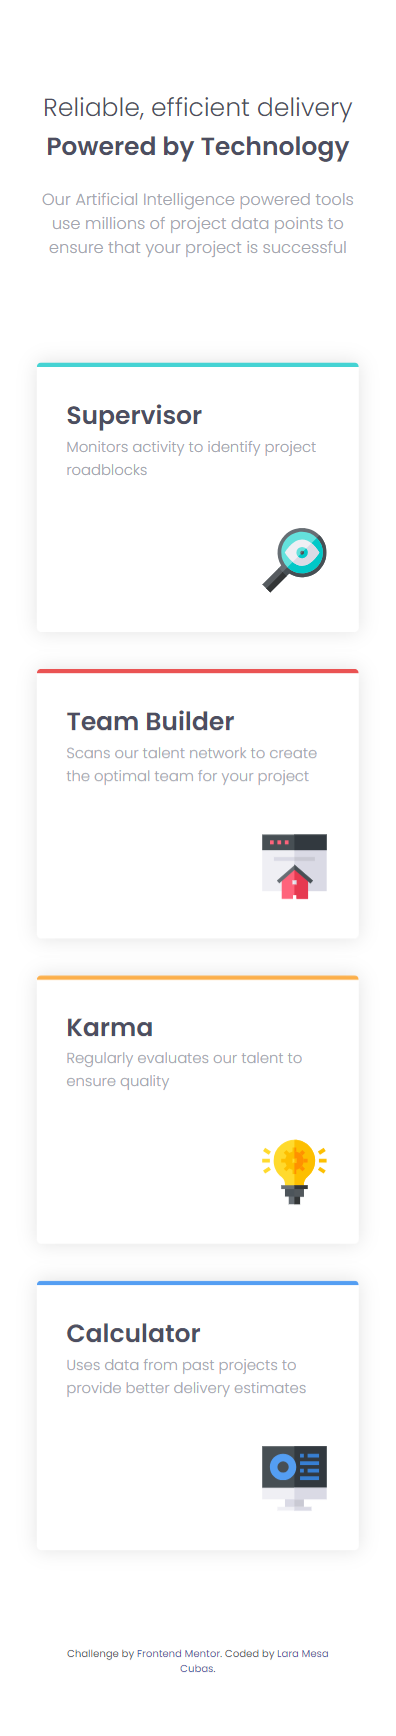
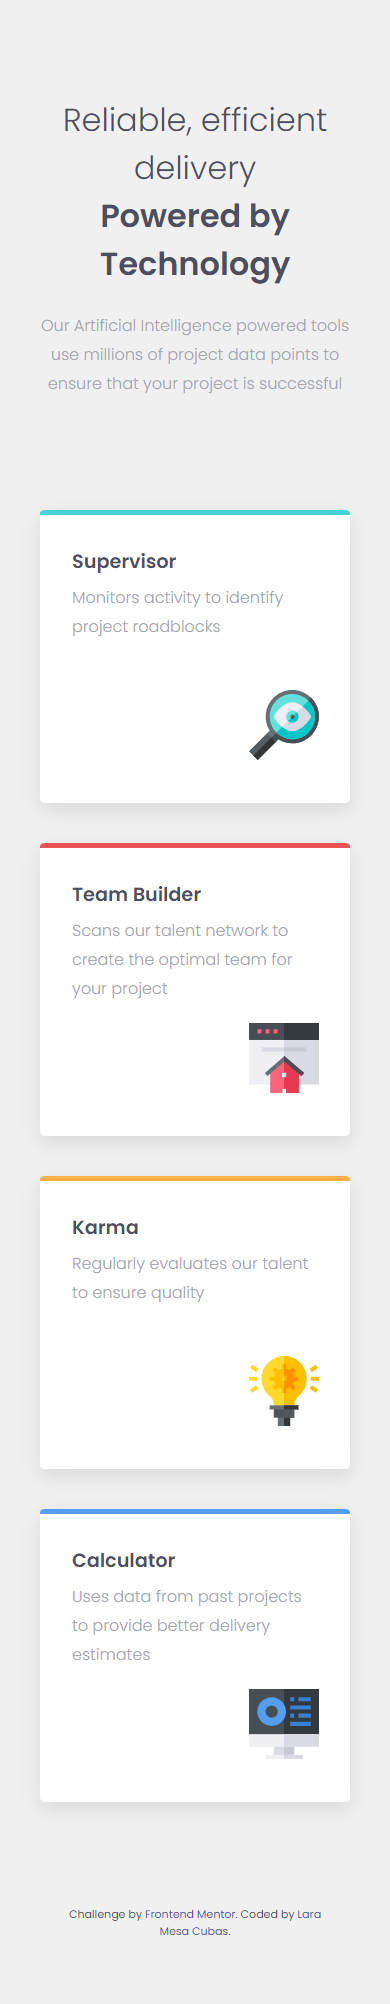
working

diff --git a/style.css b/style.css
@@ -7,7 +7,8 @@
     --color-Blue: hsl(212, 86%, 64%);
     --color-Very-Dark-Blue: hsl(234, 12%, 34%);
     --color-Grayish-Blue: hsl(229, 6%, 66%);
-    --color-Very-Light-Gray: hsl(0, 0%, 89%);
+    --color-Very-Light-Gray: hsl(0, 0%, 94%);
+    --color-shadow: hsl(0, 3%, 85%);
     --color-white: hsl(0, 0%, 100%);
     --color-a: hsl(228, 45%, 44%);
     --radius: 5px;
@@ -26,6 +27,7 @@ body {
     font-family: "Poppins", serif;
     height: 100vh;
     color: var(--color-Very-Dark-Blue);
+    background-color: var(--color-Very-Light-Gray);
 }
 
 img {
@@ -44,23 +46,24 @@ footer {
 }
 
 h1 {
-    font-size: clamp(1.7rem, 0.986rem + 1.905vw, 2.7rem);
+    font-size: 2rem;
     font-weight: var(--Weight3);
 }
 
 h2 {
-    font-size: 1.7rem;
+    font-size: 1.2rem;
     font-weight: var(--Weight3);
 }
 
 p {
     font-weight: var(--Weight1);
     color: var(--color-Grayish-Blue);
-    font-size: 1.1rem;
+    margin-top: 0.5rem;
+    line-height: 1.8;
 }
 
 .span-header {
-    font-size: clamp(1.7rem, 0.986rem + 1.905vw, 2.7rem);
+    font-size: 2rem;
     font-weight: var(--Weight1);
 }
 
@@ -85,20 +88,22 @@ p {
 
 .card {
     padding: 2rem;
-    height: 16rem;
+    height: 10rem;
     background-color: var(--color-white);
     border-radius: var(--radius);
-    box-shadow: 0px 0px 21px 0px var(--color-Very-Light-Gray);
+    box-shadow: 0px 7px 20px 0px var(--color-shadow);
     position: relative;
     transition: 0.5s;
 
     & p {
-        max-width: 20rem;
+        max-width: 18rem;
+        font-size: 0.8rem;
+
     }
 
     & img {
         margin-top: 2rem;
-        width: 80px;
+        width: 50px;
         position: absolute;
         right: 10%;
         bottom: 15%;
